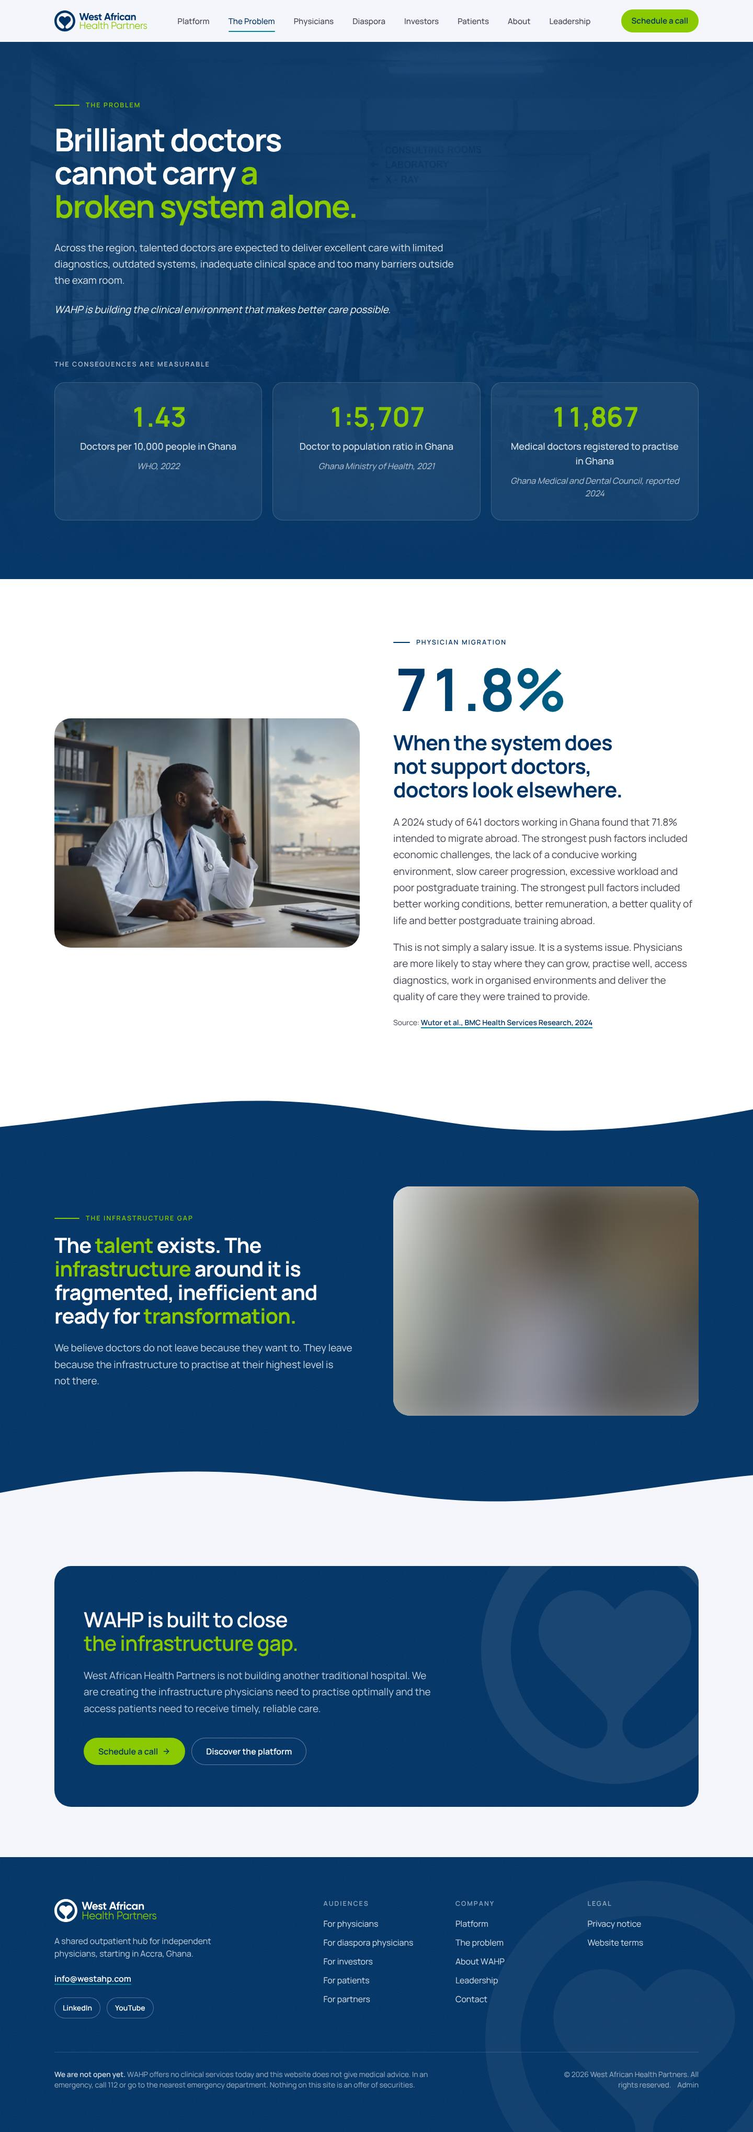
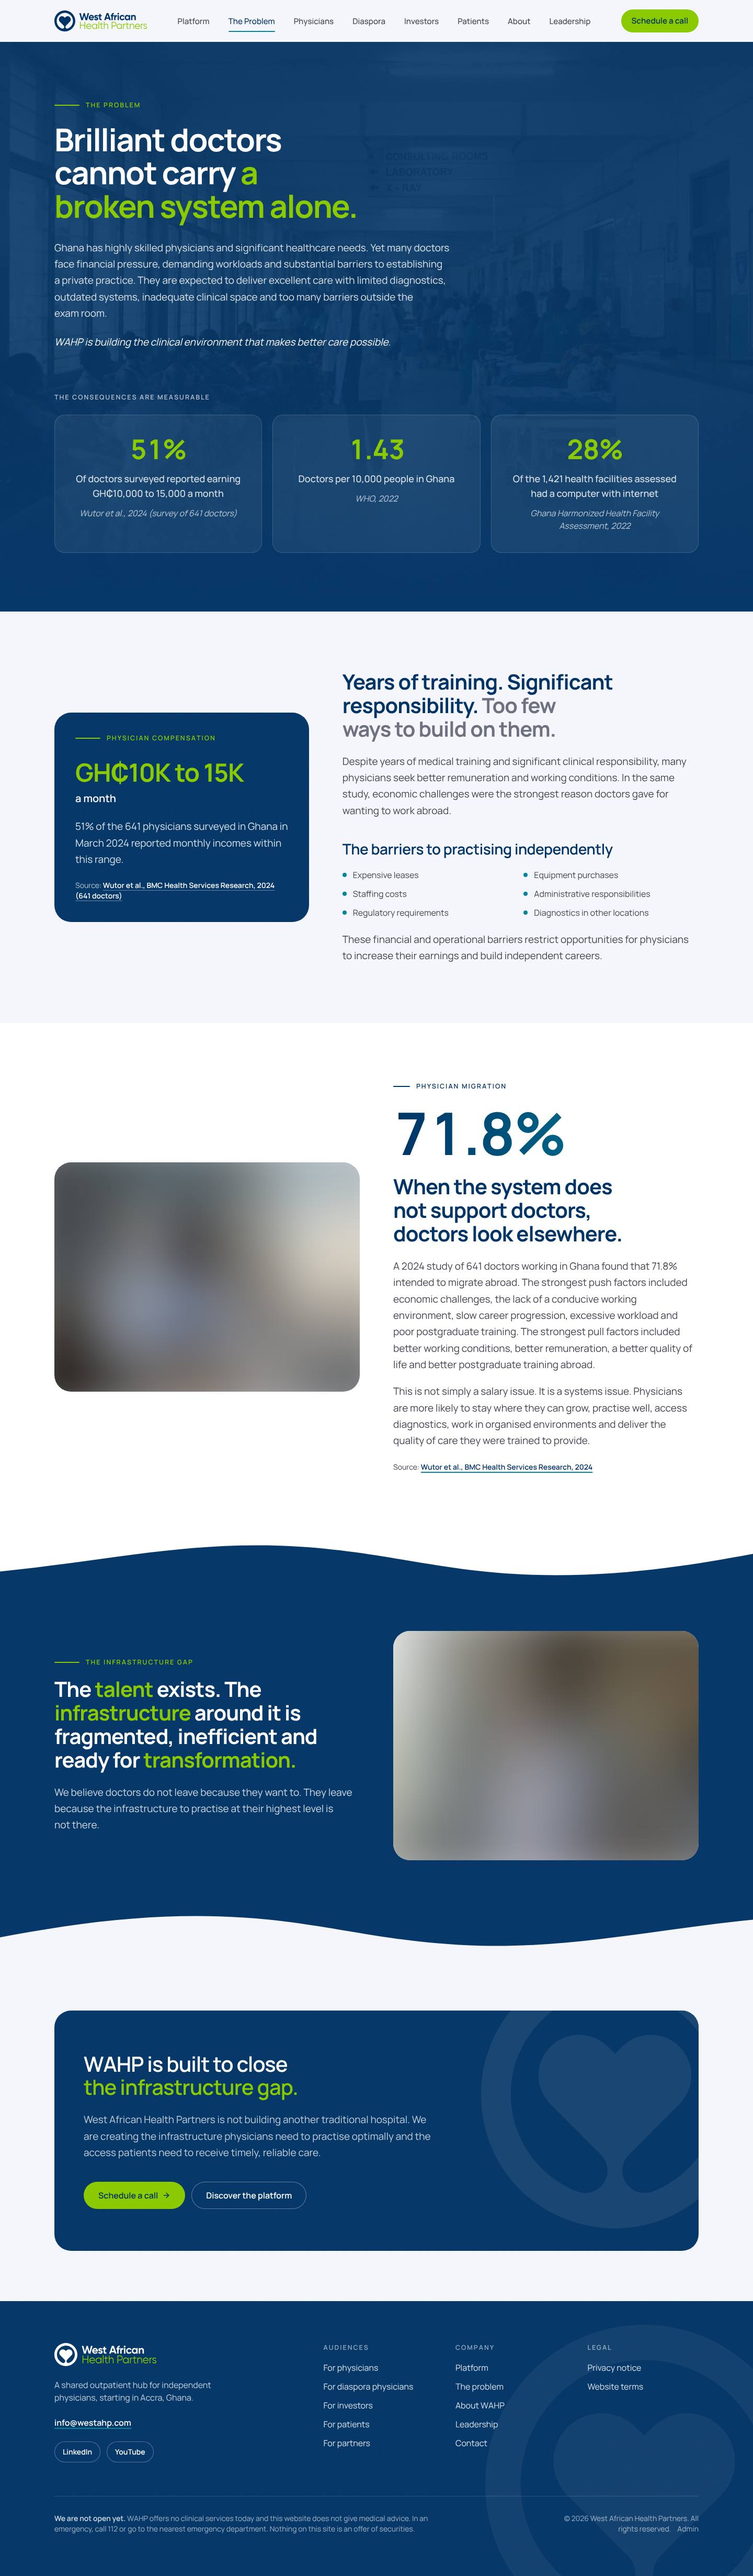
The Problem: physician pay, capacity and infrastructure in Ghana
Leads with what doctors in Ghana face: hero copy on pay pressure,
workloads and the barriers to private practice; headline figures 51%
reporting GH₵10,000 to 15,000 a month (Wutor et al. 2024), 1.43 doctors
per 10,000 (WHO 2022) and 28% of 1,421 facilities assessed with a
computer with internet (Ghana HHFA 2022); new Physician compensation
section with the barriers to practising independently. Both new figures
checked against the primary sources and registered as claims. Earnings
scenarios and investor pitch figures deliberately not used.

Claude-Session: https://claude.ai/code/session_01Gg6TP4sXwQchVWe3LbXuH5

diff --git a/src/content/claims.ts b/src/content/claims.ts
@@ -109,9 +109,32 @@ export const claims: Claim[] = [
     note: "Full citation found 6 Nov 2026 (the older build only said 'a recent study'). Its homepage's '72% … Ghana Medical Association surveys' is not used.",
   },
   {
+    id: "stat-physician-income",
+    text: "51% (327 of 641) of doctors surveyed in Ghana reported a monthly income of GH₵10,000 to 15,000",
+    source:
+      "Wutor BM et al., BMC Health Serv Res 2024;24:1493, doi:10.1186/s12913-024-11977-y, Table 1 'Monthly income' (GHȻ 10,000–15,000: n = 327, 51.0%) and Results: 'Most doctors (51.0%, n = 327) had a monthly income ranging between GHȻ10,000 and GHȻ 15,000.'",
+    status: "verified",
+    publicApproved: true,
+    lastVerified: "2026-11-06",
+    routes: ["/the-problem"],
+    note: "Self-reported income band ('What is your monthly income in cedis?'), not defined as net or gross; online convenience sample shared in doctors' WhatsApp and Telegram groups, March 2024. Present as reported income, never as Ghana's average physician salary.",
+  },
+  {
+    id: "stat-facility-internet",
+    text: "28% of health facilities assessed in Ghana had a computer with internet",
+    source:
+      "Ghana Health Service, Ministry of Health and WHO, Ghana Harmonized Health Facility Assessment 2022-2023, national report (June 2023), Executive Summary p.16 and Annex Table 2.1.1.1 ('Computer with internet', National 28%, n = 1,421). https://ghs.gov.gh/facts-and-figures/NATIONAL_HARMONISED_HEALTH_FACILITY_ASSESSMENT_REPORT_GHHFA_SIGNED.pdf",
+    status: "verified",
+    publicApproved: true,
+    lastVerified: "2026-11-06",
+    routes: ["/the-problem"],
+    note: "Main service area; 1,421 facilities assessed (tertiary excluded, hospitals and polyclinics included on purpose, no weights described). Say 'of facilities assessed', not 'of all facilities'. Government facilities 12%, CHPS 2%.",
+  },
+  {
     id: "migration-factors",
     text: "Push factors: economic challenges, lack of a conducive working environment, slow career progression, excessive workload, poor postgraduate training. Pull factors: better working conditions, remuneration, quality of life and postgraduate training abroad.",
-    source: "Same study as stat-migration-intent (Wutor et al., BMC Health Serv Res 2024), as quoted on the older build's The Problem page",
+    source:
+      "Same study as stat-migration-intent (Wutor et al., BMC Health Serv Res 2024), as quoted on the older build's The Problem page",
     status: "verified",
     publicApproved: true,
     lastVerified: "2026-11-06",

diff --git a/src/app/(site)/the-problem/page.tsx b/src/app/(site)/the-problem/page.tsx
@@ -28,14 +28,14 @@ const headline: (StatCard & { claim: string })[] = [
   {
     claim: "stat-physician-income",
     value: "51%",
-    label: "Of surveyed doctors reported earning GH₵10,000 to 15,000 a month",
-    source: "Wutor et al., 2024 (641 doctors)",
+    label: "Of doctors surveyed reported earning GH₵10,000 to 15,000 a month",
+    source: "Wutor et al., 2024 (survey of 641 doctors)",
   },
   { claim: "stat-doctor-density", value: "1.43", label: "Doctors per 10,000 people in Ghana", source: "WHO, 2022" },
   {
     claim: "stat-facility-internet",
     value: "28%",
-    label: "Of assessed health facilities had a computer with internet",
+    label: "Of the 1,421 health facilities assessed had a computer with internet",
     source: "Ghana Harmonized Health Facility Assessment, 2022",
   },
   {
@@ -119,12 +119,12 @@ export default function TheProblemPage() {
             {/* The figure in a navy panel, green on navy as on the older build's stat cards. */}
             <div className="reveal grain on-dark relative overflow-hidden rounded-panel bg-navy p-8 text-white md:p-10">
               <Eyebrow accent="green">Physician compensation</Eyebrow>
-              <p className="mt-8 text-[clamp(2.75rem,8vw,4.25rem)] leading-none font-bold tracking-tight text-green">
+              <p className="mt-8 text-[clamp(2.25rem,9vw,3rem)] leading-none font-bold tracking-tight whitespace-nowrap text-green">
                 GH₵10K to 15K
               </p>
               <p className="mt-3 text-xl font-semibold text-white">a month</p>
               <p className="mt-6 text-lead text-white/85">
-                51% of physicians surveyed in Ghana reported monthly incomes within this range.
+                51% of the 641 physicians surveyed in Ghana in March 2024 reported monthly incomes within this range.
               </p>
               <p className="mt-6 text-sm text-white/70">
                 Source:{" "}

diff --git a/docs/IMPLEMENTATION_LOG.md b/docs/IMPLEMENTATION_LOG.md
@@ -345,3 +345,11 @@ Both redrawn as inline SVG after the owner's mockups, so they stay sharp, keep t
 - **For the owner to check:** the Physicians heading "Lower overhead. More control. Greater potential." (from the older build; a promise without a figure); the About mission now ends "to practise at their highest level, at home" (was "at their best"; compare with the One-Pager); the Investors hero "Building the infrastructure for Africa's next healthcare revolution" (from the deck).
 - Test-bound labels kept: "Equipped clinical suites", "Integrated diagnostic laboratory" (platform tabs test) and the enquiry type "Strategic partner" (the partner call type is "Partner or vendor").
 
+## 6 Nov 2026, The Problem page: what doctors in Ghana face
+
+- At the owner's request The Problem page now leads with the problems for doctors in Ghana, in this order: pay, capacity, infrastructure, migration, then WAHP's answer.
+- **Hero:** "Ghana has highly skilled physicians and significant healthcare needs. Yet many doctors face financial pressure, demanding workloads and substantial barriers to establishing a private practice." The headline figures are now **51%** of doctors surveyed reporting GH₵10,000 to 15,000 a month (Wutor et al. 2024), **1.43** doctors per 10,000 people (WHO 2022) and **28%** of the 1,421 health facilities assessed with a computer with internet (Ghana Harmonized Health Facility Assessment 2022). The workforce ratio and register return automatically if either new claim is withdrawn.
+- **New "Physician compensation" section:** "GH₵10K to 15K a month", the study source, "Despite years of medical training and significant clinical responsibility, many physicians seek better remuneration and working conditions", economic challenges as the strongest push factor, and the barriers to practising independently (leases, equipment, staffing, administration, regulation, diagnostics elsewhere).
+- **Both figures were checked against the primary sources** (claims `stat-physician-income` and `stat-facility-internet`): the study's Table 1 (327 of 641, 51.0%; self-reported band, not net or gross; online convenience sample, March 2024) and the HHFA national report, Executive Summary p.16 and Annex Table 2.1.1.1 (28%, n = 1,421). Worded as "reported" and "of facilities assessed", not as a national average salary or all facilities.
+- **Not used on this page** (from the analysis the owner shared): the four physician earnings scenarios, the WageIndicator range, the Year 1 revenue and recruitment figures, the $800,000 raise and the pitch text. They are projections or investor material; the earnings examples would need "revenue after the WAHP fee, before other costs" framing and counsel review before going anywhere public.
+

diff --git a/docs/CONTENT_APPROVAL.md b/docs/CONTENT_APPROVAL.md
@@ -61,6 +61,9 @@ The decisions below block or shape public launch. The machine-readable register 
 | Canonical domain: westahp.com vs westafricanhealthpartners.com | UI doc vs blueprint | `NEXT_PUBLIC_SITE_URL` defaults to westahp.com. Confirm |
 | Instagram / X | Brand guide mock-ups | Not used. No confirmed handles; blueprint says no X |
 
+| Physician pay: 51% of 641 doctors surveyed reported GH₵10,000 to 15,000 a month | Wutor et al. 2024, Table 1 (verified 6 Nov 2026) | Used on /the-problem. Self-reported band, convenience sample: never present as Ghana's average salary |
+| 28% of 1,421 health facilities assessed had a computer with internet | Ghana HHFA 2022-2023 national report, Annex Table 2.1.1.1 (verified 6 Nov 2026) | Used on /the-problem |
+| Physician earnings scenarios (GP $10,080 … cardiologist $27,360 a year after the WAHP fee) | Owner analysis, 6 Nov 2026 | **Not used.** Projections; if ever published, frame as "revenue after the WAHP session fee, before other costs and tax", show lower volumes, and have counsel review |
 | Site copy in the older build's wording (6 Nov 2026, owner request) | Older WordPress build, all pages | About 75% of the words on Home, Platform, The Problem, Physicians, Diaspora, Investors, About and Contact now come from it (see `IMPLEMENTATION_LOG.md`). **Please check:** Physicians heading "Lower overhead. More control. Greater potential."; About mission ending "at their highest level, at home"; Investors hero "Building the infrastructure for Africa's next healthcare revolution" |
 
 ## C. Confidential material deliberately excluded
